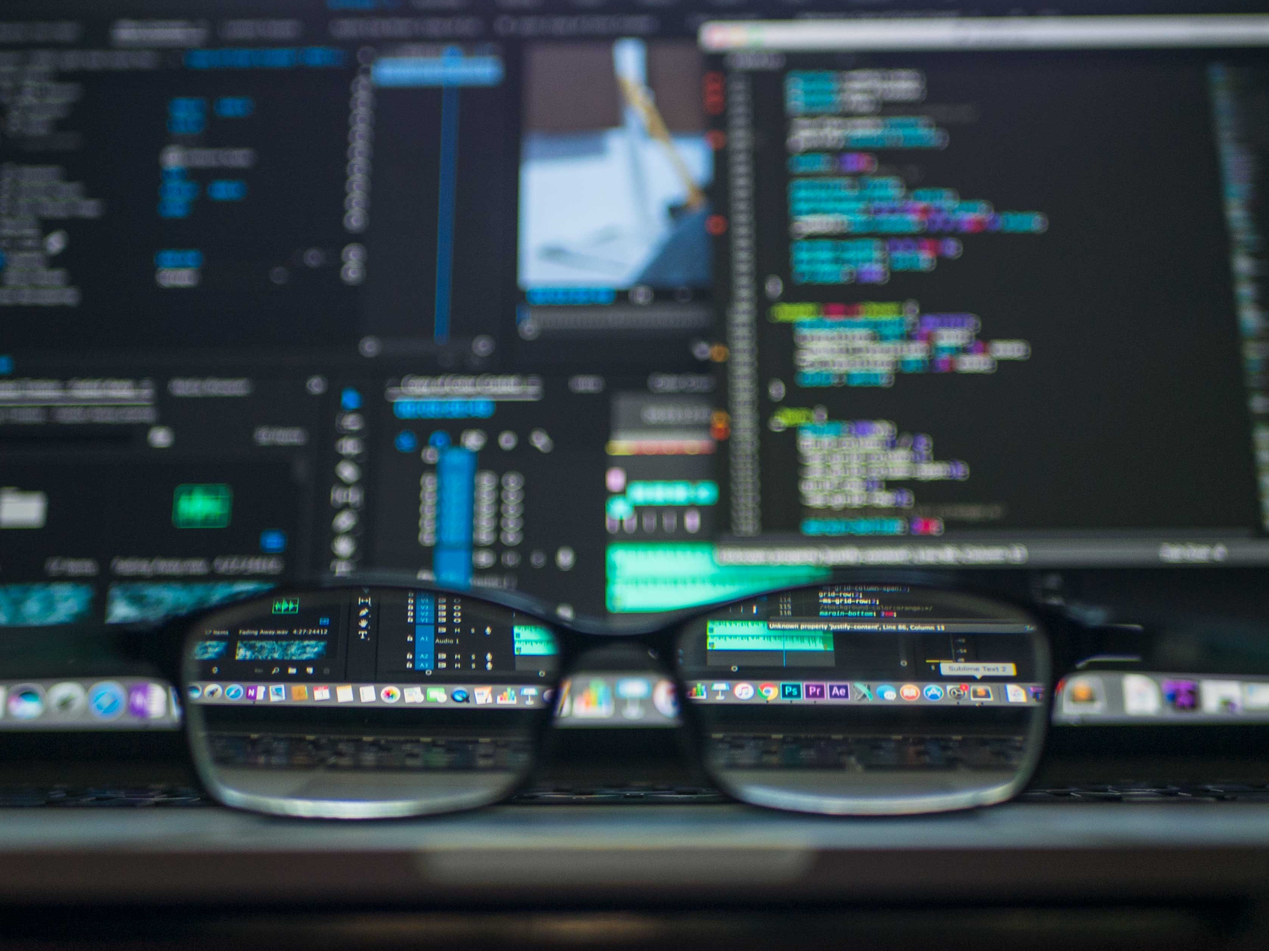
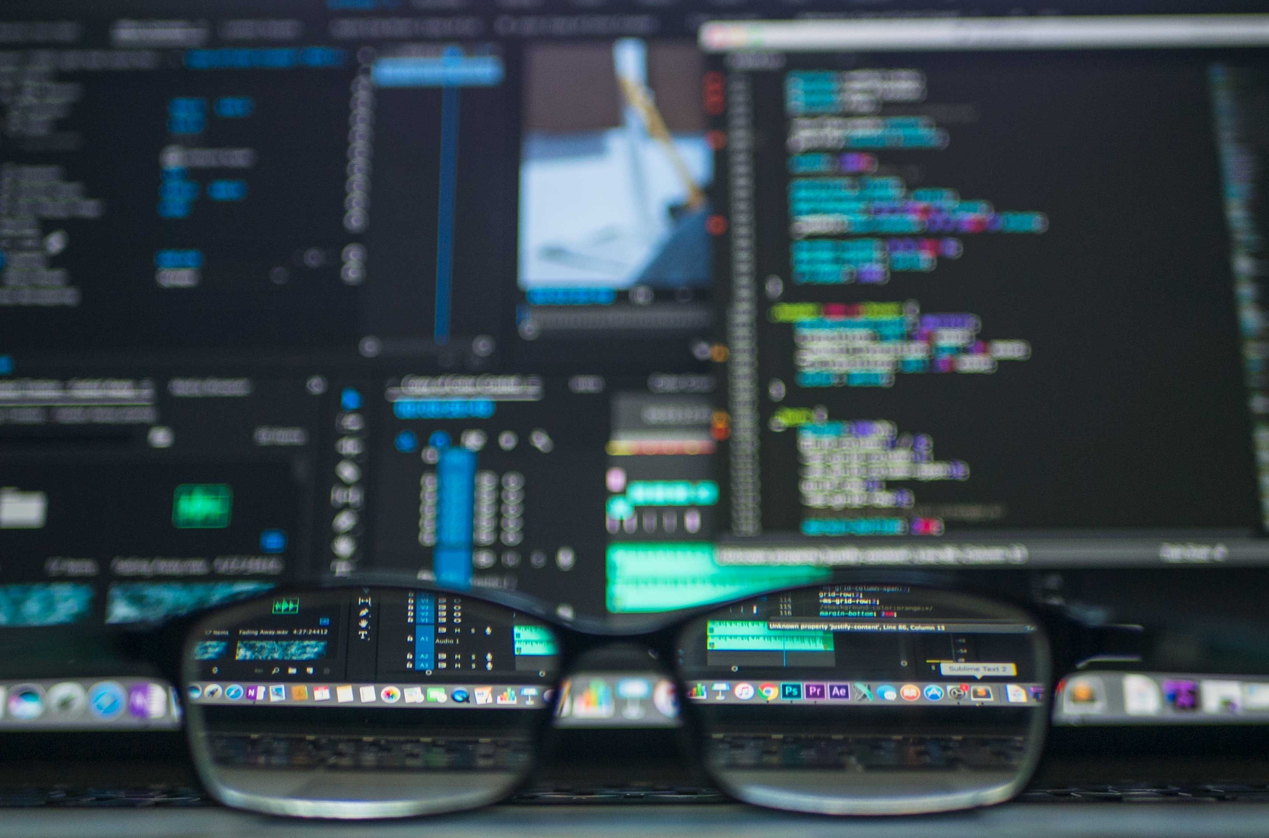
imagens responsivas

diff --git a/index.html b/index.html
@@ -136,11 +136,11 @@
                 <div class="row">
                     <div class="col-lg-6">
                         <p>manutenção de mais de 100<br> computadores por mês alta demanda de serviço</p>
-                        <img src="img/main-pc.jpg" height="350px">
+                        <img src="img/main-pc.jpg" width="100%">
                     </div>
                     <div class="col-lg-6">
                         <p>Os melhores sites do mercado<br> com responsividade e design inovador</p>
-                        <img src="img/dev-web.jpg" height="350px">
+                        <img src="img/dev-web.jpg" width="100%">
                     </div>
                 </div>
             </div>

diff --git a/style/index.css b/style/index.css
@@ -97,6 +97,9 @@ section#service {
     padding: 30px;
 }
 
+section#service .row img {
+    border-radius: 10px;
+}
 
 
 
